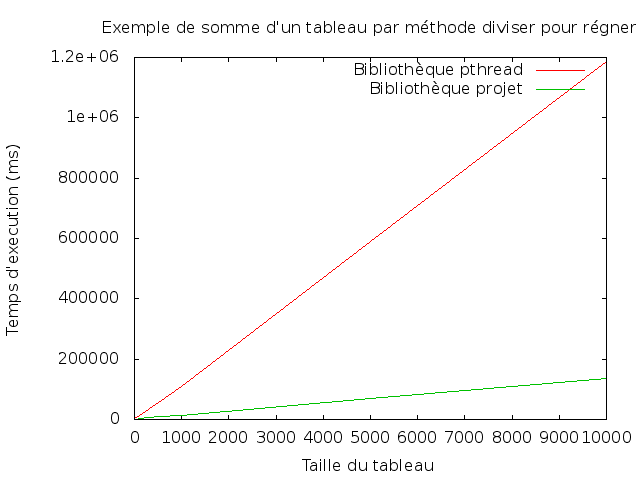
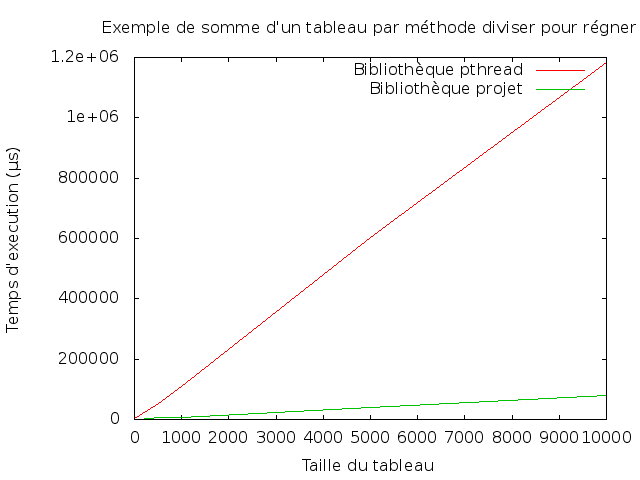
[usersThreads] Simplification du script de création de graphes, correction de la préemption, reécriture readme, information plus précise dans makefile

Changed region(s): [[0.0, 0.2812, 0.0312, 0.6875], [0.2188, 0.8438, 0.4688, 0.875], [0.6562, 0.8125, 0.75, 0.8438]]

diff --git a/src/core/thread.c b/src/core/thread.c
@@ -68,8 +68,8 @@ void run_thread(struct thread * next_running_thread){
     setcontext(&exiting_context);
   }
   running = next_running_thread;
-  thread_preemption_enable();
   setcontext(&next_running_thread->uc);
+  thread_preemption_enable();
 }
 
 void * th_intermediaire(void *(*func)(void *), void *funcarg){
@@ -132,8 +132,8 @@ extern int thread_create(thread_t *newthread, void *(*func)(void *), void *funca
 
 extern int thread_create_a(thread_t *newthread, void *(*func)(void *), void *funcarg, int adding_type){
  
-  ucontext_t * uc;
   thread_preemption_disable();
+  ucontext_t * uc;
   //allocation newthread
   *newthread = (struct thread *) malloc(sizeof(struct thread));
   
@@ -152,8 +152,8 @@ extern int thread_create_a(thread_t *newthread, void *(*func)(void *), void *fun
   makecontext(uc, (void (*)(void)) th_intermediaire, 2, func, funcarg);
   (*newthread)->retval = NULL;
   add_in_list(&ready_list, *newthread);
-  thread_yield();
   thread_preemption_enable();
+  thread_yield();
   return 0;
 }
 
@@ -213,11 +213,11 @@ extern int thread_join(thread_t thread, void **retval){
     running = top;
     swapcontext(&prev->uc, &top->uc);
   }
-  thread_preemption_enable();
   assert (thread->status != READY);
   *retval = thread->retval;
   thread_destruct(thread);
   free(thread);
+  thread_preemption_enable();
   return 0;
 }
 
@@ -238,7 +238,6 @@ extern void thread_exit(void *retval){
       valid_thread = chose_next_running_thread(&ready_list);
     running = valid_thread;
     getcontext(&exiting_context);
-    thread_preemption_enable();
     swapcontext(&exiting_context, &valid_thread->uc);
     exit(0);
   } else {
@@ -249,6 +248,7 @@ extern void thread_exit(void *retval){
       run_thread(chose_next_running_thread(&ready_list));
     }
   }
+  thread_preemption_enable();
 }
 
 

diff --git a/src/core/preemption.c b/src/core/preemption.c
@@ -4,17 +4,16 @@
 
 #include "thread.h"
 
-#define TIMESLICE ((long long) 1e7)
+#define TIMESLICE ((long long) 1e6)
 
-static struct sigaction old;
 static struct sigevent sev;
-static struct itimerspec its, disarm;
+static struct itimerspec its;
 static timer_t timerid;
 
 int enablestatus = 0;
 
 
-static void set_alarm (long long time_slice)
+static void set_timer_preempt (long long time_slice)
 {
   its.it_value.tv_sec = time_slice / 1000000000;
   its.it_value.tv_nsec = time_slice % 1000000000;
@@ -26,9 +25,8 @@ static void set_alarm (long long time_slice)
 
 void preempt(int signum)
 {
-  if(signum == SIGALRM)
+  if(signum == SIGALRM && enablestatus)
   {
-    set_alarm(TIMESLICE);
     thread_yield();
   }
 }
@@ -39,30 +37,26 @@ void thread_preemption_init()
   new.sa_handler = preempt;
   sigemptyset(&new.sa_mask);
   new.sa_flags = 0;
-  sigaction(SIGALRM, &new, &old);
-
-  disarm.it_value.tv_sec = 0;
-  disarm.it_value.tv_nsec = 0L;
-  disarm.it_interval.tv_sec = 0;
-  disarm.it_interval.tv_nsec = 0L;
+  sigaction(SIGALRM, &new, NULL);
 
   sev.sigev_notify = SIGEV_SIGNAL;
   sev.sigev_signo = SIGALRM;
   sev.sigev_value.sival_ptr = &timerid;
   timer_create(CLOCK_THREAD_CPUTIME_ID, &sev, &timerid);
+
+  set_timer_preempt(TIMESLICE);
 }
 
 void thread_preemption_quit()
 {
-  sigaction(SIGALRM, &old, NULL);
   timer_delete(timerid);
 }
 
 void thread_preemption_disable()
 {
-  timer_settime(timerid, 0, &disarm,NULL);
+  enablestatus = 0;
 }
 void thread_preemption_enable()
 {
-  set_alarm(TIMESLICE);
+  enablestatus = 1;
 }

diff --git a/README.md b/README.md
@@ -9,14 +9,24 @@ Création d'une bibliothèque de threads en C
 
 + make : contruit la bibliothèque de threads, ainsi que le programme d'exemple fourni
 + make lib : construit uniquement la bibliothèque
-+ make tests : construits les exécutables de tous les tests avec la bibliothèque du projet
++ make tests : construit les exécutables de tous les tests avec la bibliothèque du projet
 + rajouter OPT=-DUSE_PTHREAD à la commande make tests pour compiler les tets avec la bibliothèque p_thread
 
 
 ###Configuration de la compilation###
 
-Il est possible d'éditer le fichier src/conf.make afin de changer la variable DEBUG à NO pour compiler sans symboles de débuggage ni vérification valgrind. Par ailleurs notez qu'il n'existe pas de règle d'installation de la librairie ; la compilation des programmes de tests récupère le chemin absolu de la librarie et évite ainsi de la copier dans /usr/lib (ou autre) et/ou d'éditer le LD_LIBRARY_PATH. Attention par conséquent à ne pas déplacer la librairie après l'avoir compilée.
+Il est possible d'éditer le fichier src/conf.make afin de changer la variable DEBUG à NO pour compiler sans symboles de débuggage ni vérification valgrind. Par ailleurs notez qu'il n'existe pas de règle d'installation de la librairie ; la compilation des programmes de tests récupère le chemin absolu de la librarie et évite ainsi de la copier dans /usr/lib (ou autre) et/ou d'éditer le LD_LIBRARY_PATH. Attention par conséquent à ne pas déplacer la librairie après l'avoir compilée, car il s'agit bien d'une librairie dynamique.
 
 ## Scripts de tests ##
 
-Le script actuel run_tests.sh lance tous les binaires de tests fournis par M. Goglin ainsi que d'autres créés par l'équipe, avec p_thread et avec thread.so. Une comparaison entre les deux versions est effectuée pour chaque test puis un diff des résultats et un diff de valgrind est affiché. La génération/configuration peut être faite dans bench/ .
+###Exécution de tous les tests
+
+Le script run_tests.sh lance tous les binaires de tests fournis par M. Goglin ainsi que d'autres créés par l'équipe, avec p_thread et avec thread.so. Une comparaison entre les deux versions est effectuée pour chaque test puis un diff des résultats est affiché. Tous les tests sont effectués avec comme variables l'entier 10.
+
+###Vérification mémoires###
+
+Le script valgrind_tests.sh lance tous les binaires de tests (idem run_tests.sh) avec cette fois-ci valgrind. Le diff affiché correspond au diff des résultats valgrind. Le script met un certain temps à s'exécuter.
+
+###Création de graphiques###
+
+La génération de graphes peut être faite dans bench/ grâce au script create_graph.sh. Celui génère les graphique (sortie en .png) de cinq tests différents, correspondant à chaque fois au temps d'exécution de p_thread et celui de la bibliothèque du projet, en fonction d'une variable indiquée (le plus souvent le nombre de threads). Une moyenne sur 10 exécution est faite afin d'éviter la présence de résultats non significatifs (car perturbés par des interruptions ou autre).
